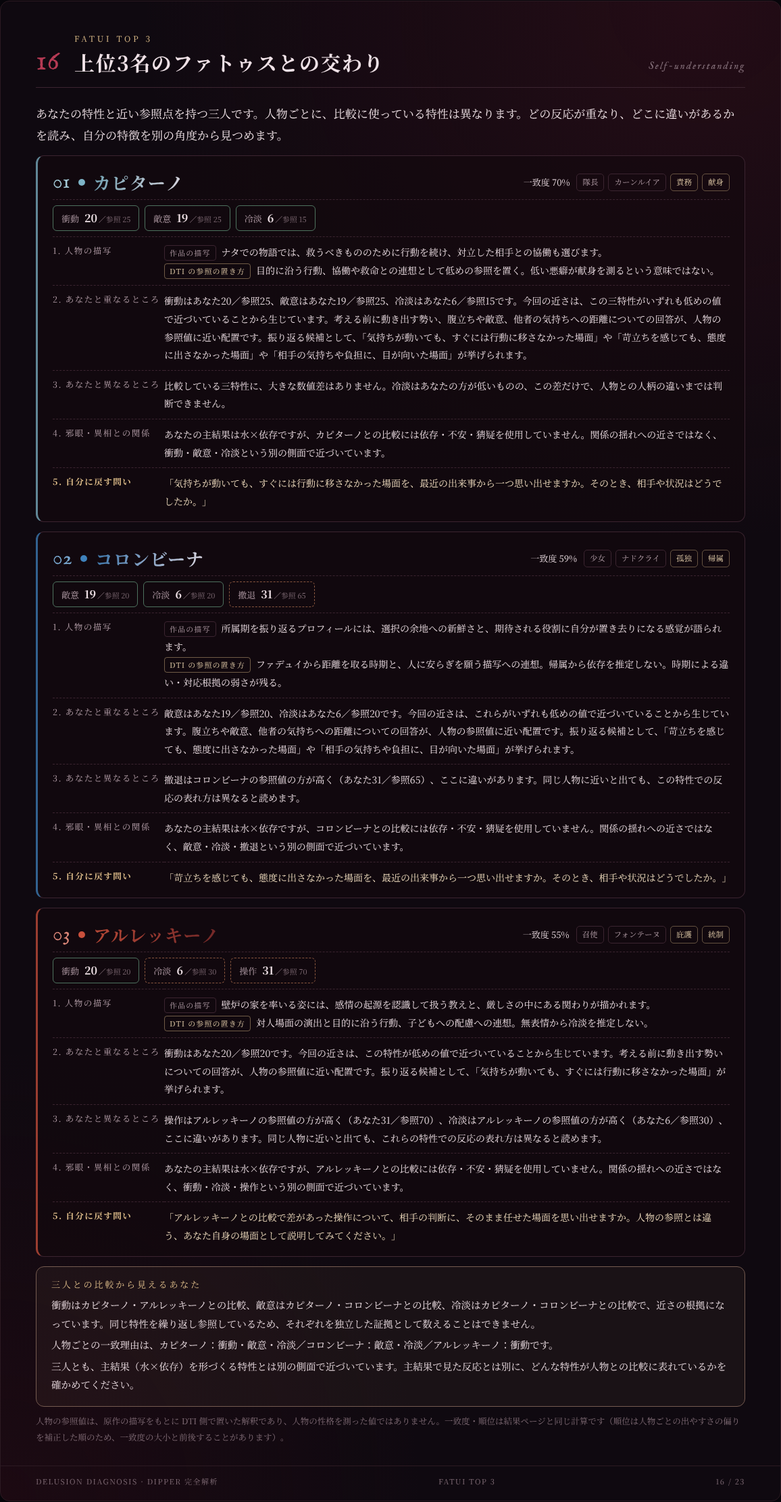
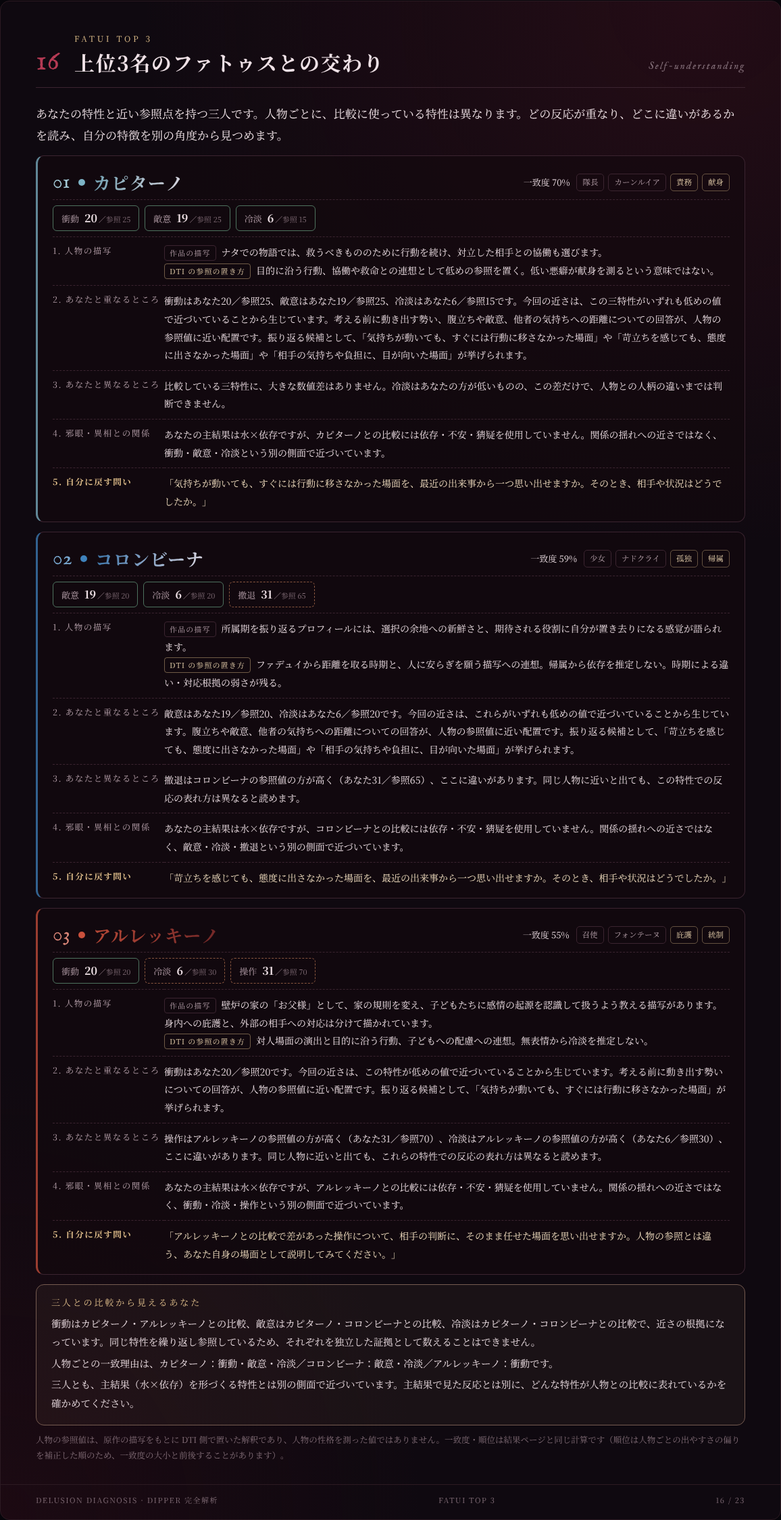
邪眼：ファトゥスの照合結果を反映（照合表に結果・原作の描写・修正方針。作品紹介文を行動・証言・解釈を分けて修正、操作を比較する人物の注意書きを具体化）。参照値の変更案と影響の試算は未適用の別資料に
Claude-Session: https://claude.ai/code/session_01G98Q4k59pxprHjFdWRszS7

diff --git a/docs/jagan/FATUI_REFERENCE_CHECK.md b/docs/jagan/FATUI_REFERENCE_CHECK.md
@@ -2,26 +2,28 @@
 
 作成：2026-11-08（DIPPER 16「上位3名のファトゥスとの交わり」の確認用）
 
-- この表は、現在レポートに出ている文と、DTI が置いている参照値をそのまま並べたものです。原作の具体的な場面との照合は、まだ行っていません。
-- 「照合結果」「対応する原作の場面」「修正案」の欄は空欄です。確認しながら書き込んでください。
+- 2026-11-08 更新：オーナーが、公開されている原作のプロフィール・任務・ボイスの記録（転載）と比較した照合結果を反映しました。ゲーム内の全場面を直接確認したものではありません。
+- 特性の方向性を説明できても、75や90という数値までは原作から確定できません。**全員の参照値は、DTI 側の編集上の設定**として扱います。
+- 作品紹介文と注意書きは修正済み（下の「作品の描写」は修正後の文）。**参照値の変更は未適用**で、案と影響の試算は FATUI_REFERENCE_PROPOSAL.md にあります。
+- 方針：「未対応」と「低い・中ほど」を分ける（分からない特性を低い値や50付近で埋めない）／人物の行動・他者の証言・DTI の解釈を分ける（証言は「○○はこう評している」と書く）／設定時期と対象範囲（執行官期か後年か、身内か他者全般か）を明示する。
 - 参照値は、原作の描写をもとに DTI 側で置いた解釈です（reference_origin: authored_story_association_not_measured_character_trait／confidence: interpretive_not_validated）。人物の性格を測った値ではありません。
 - 参照値の目安：35以下＝低め、65以上＝高め、その間＝中ほど。
 
 ## 一覧
 
-| # | 人物 | 肩書き | 出身 | 参照特性（参照値） | 根拠メモの注記 |
+| # | 人物 | 肩書き | 出身 | 参照特性（参照値） | 照合結果 |
 |---|---|---|---|---|---|
-| 1 | ピエロ | 道化 | カーンルイア | 敵意 75（高め）・猜疑 65（高め） | — |
-| 2 | カピターノ | 隊長 | カーンルイア | 衝動 25（低め）・冷淡 15（低め）・敵意 25（低め） | — |
-| 3 | ドットーレ | 博士 | スメール | 操作 90（高め）・冷淡 90（高め） | — |
-| 4 | コロンビーナ | 少女 | ナドクライ | 撤退 65（高め）・敵意 20（低め）・冷淡 20（低め） | 要確認（根拠メモに注記あり） |
-| 5 | アルレッキーノ | 召使 | フォンテーヌ | 操作 70（高め）・衝動 20（低め）・冷淡 30（低め） | — |
-| 6 | プルチネッラ | 雄鶏 | スネージナヤ | 操作 75（高め）・衝動 30（低め） | 要確認（根拠メモに注記あり） |
-| 7 | スカラマシュ | 散兵 | 稲妻 | 敵意 90（高め）・猜疑 85（高め） | — |
-| 8 | サンドローネ | 傀儡 | フォンテーヌ | 撤退 75（高め）・敵意 65（高め） | — |
-| 9 | シニョーラ | 淑女 | モンド | 敵意 85（高め）・操作 70（高め）・冷淡 65（高め） | — |
-| 10 | パンタローネ | 富者 | 璃月 | 操作 85（高め）・冷淡 55（中ほど） | 要確認（根拠メモに注記あり） |
-| 11 | タルタリヤ | 公子 | スネージナヤ | 危険志向 85（高め）・衝動 45（中ほど） | 要確認（根拠メモに注記あり） |
+| 1 | ピエロ | 道化 | カーンルイア | 敵意 75（高め）・猜疑 65（高め） | 一部一致 |
+| 2 | カピターノ | 隊長 | カーンルイア | 衝動 25（低め）・冷淡 15（低め）・敵意 25（低め） | 一部一致 |
+| 3 | ドットーレ | 博士 | スメール | 操作 90（高め）・冷淡 90（高め） | 対応は比較的明確 |
+| 4 | コロンビーナ | 少女 | ナドクライ | 撤退 65（高め）・敵意 20（低め）・冷淡 20（低め） | 紹介文は支持、撤退との対応は弱い |
+| 5 | アルレッキーノ | 召使 | フォンテーヌ | 操作 70（高め）・衝動 20（低め）・冷淡 30（低め） | 一部一致 |
+| 6 | プルチネッラ | 雄鶏 | スネージナヤ | 操作 75（高め）・衝動 30（低め） | 一部一致 |
+| 7 | スカラマシュ | 散兵 | 稲妻 | 敵意 90（高め）・猜疑 85（高め） | 執行官期に限定すれば、おおむね対応 |
+| 8 | サンドローネ | 傀儡 | フォンテーヌ | 撤退 75（高め）・敵意 65（高め） | 一部一致 |
+| 9 | シニョーラ | 淑女 | モンド | 敵意 85（高め）・操作 70（高め）・冷淡 65（高め） | 敵意は説明しやすい、操作・冷淡は追加説明が必要 |
+| 10 | パンタローネ | 富者 | 璃月 | 操作 85（高め）・冷淡 55（中ほど） | 一部一致 |
+| 11 | タルタリヤ | 公子 | スネージナヤ | 危険志向 85（高め）・衝動 45（中ほど） | 危険志向は支持、衝動の程度は未確定 |
 
 ## 人物ごとの詳細
 
@@ -32,14 +34,15 @@
 | 参照特性 | 敵意 75（高め）・猜疑 65（高め） |
 | 参照しない特性 | 不安・依存・撤退・衝動・固執・完璧・顕示・操作・危険志向・冷淡 |
 | 人物タグ | 喪失・反逆 |
-| 作品の描写（レポート掲載文） | ファデュイの統括官として、失われたものへの思いを大義につなぎ、長期的な活動を続ける姿が描かれます。 |
+| 作品の描写（レポート掲載文） | プロフィール「嗤笑の面」には、災厄を阻止できなかった経緯と、その後の怒りや天理への反逆が記されています。 |
 | DTI の参照の置き方（根拠メモ） | 喪失を背景にした敵対と不信を物語上の参照にする。固執・依存の座標は推定しない。 |
 | 連想のテーマ | 長く抱えている思いと、日々続けている行動との関係を振り返るための連想です。 |
 | 測っていないこと（注意書き） | 怒りや不信の高さは、人物の善悪や、復讐心・加害性が似ているという意味ではありません。 |
 | 出典 | https://genshin-impact.fandom.com/ja/wiki/嗤笑の面 |
-| **照合結果**（一致／一部一致／不一致） | |
-| **対応する原作の場面** | |
-| **修正案** | |
+| **照合結果** | 一部一致 |
+| **対応する原作の描写** | 「嗤笑の面」：災厄を阻止できなかった経緯、怒り、天理への反逆。 |
+| **修正方針** | 敵意との連想は説明可能。猜疑65は根拠不足として再検討（世界への反逆＝人を疑いやすい、とは結びつけない）。 |
+| 照合に使った記録 | https://genshin-impact.fandom.com/ja/wiki/嗤笑の面 |
 
 確認したいこと：
 - 敵意を高め（75）に置く根拠となる言動・場面が、原作にあるか。
@@ -58,9 +61,10 @@
 | 連想のテーマ | 気持ちが揺れる中でも必要なことを続けるあり方を振り返る連想です。 |
 | 測っていないこと（注意書き） | 献身・責任感・戦闘力は測っていません。衝動・冷淡・敵意が低めの参照との近さだけを見ており、人物全体は表せません。 |
 | 出典 | https://genshin-impact.fandom.com/ja/wiki/「隊長」 |
-| **照合結果**（一致／一部一致／不一致） | |
-| **対応する原作の場面** | |
-| **修正案** | |
+| **照合結果** | 一部一致 |
+| **対応する原作の描写** | ナタで当初対立したマーヴィカの計画を認め、部下とともに協力する描写。 |
+| **修正方針** | 作品紹介は維持。低い参照値の根拠は献身からの逆算ではなく、各特性に対応する判断や言動で示す。足りない項目は保留。 |
+| 照合に使った記録 | https://genshin-impact.fandom.com/ja/wiki/「隊長」 |
 
 確認したいこと：
 - 衝動を低め（25）に置く根拠となる言動・場面が、原作にあるか。
@@ -75,14 +79,15 @@
 | 参照特性 | 操作 90（高め）・冷淡 90（高め） |
 | 参照しない特性 | 不安・依存・猜疑・撤退・衝動・固執・完璧・敵意・顕示・危険志向 |
 | 人物タグ | 探究・操作 |
-| 作品の描写（レポート掲載文） | スメールでの物語では、研究目的に向けた活動と、交渉に応じて手段を組み替える姿が描かれます。 |
+| 作品の描写（レポート掲載文） | 任務「夜を飛ぶ鳥は三段へと落ちる」では、丹羽を殺害し、その経緯を偽って傾奇者に伝えていたことが明らかになります。他者を実験の手段として扱う描写もあります。 |
 | DTI の参照の置き方（根拠メモ） | 他者を手段にする行動と不利益の扱いを比較。研究好きから固執や完璧を推定しない。 |
 | 連想のテーマ | 目的への関わり方や、出来事の扱い方について考えるための連想です。 |
-| 測っていないこと（注意書き） | 残虐性・知能・倫理観が似ているという意味ではありません。操作と冷淡が高い参照との近さだけを見ています。 |
+| 測っていないこと（注意書き） | 残虐性・知能・倫理観が似ているという意味ではありません。操作と冷淡が高い参照との近さだけを見ています。操作に関係する設問への回答傾向を比較しています。個別の場面で相手を操る意図があったか、善意があったかまでは、この結果から判断できません。 |
 | 出典 | https://genshin-impact.fandom.com/ja/wiki/「博士」 |
-| **照合結果**（一致／一部一致／不一致） | |
-| **対応する原作の場面** | |
-| **修正案** | |
+| **照合結果** | 対応は比較的明確 |
+| **対応する原作の描写** | 任務「夜を飛ぶ鳥は三段へと落ちる」：丹羽を殺害し、その経緯を偽って傾奇者に伝えていた。 |
+| **修正方針** | 紹介文を、欺瞞による誘導と他者を実験の手段にする描写へ変更（済）。90という数値は編集上の設定と明記。 |
+| 照合に使った記録 | https://genshin-impact.fandom.com/ja/wiki/夜を飛ぶ鳥は三段へと落ちる |
 
 確認したいこと：
 - 操作を高め（90）に置く根拠となる言動・場面が、原作にあるか。
@@ -101,9 +106,10 @@
 | 連想のテーマ | 自分の意思や、人とのつながりをどう感じているかを振り返る連想です。 |
 | 測っていないこと（注意書き） | 孤独や帰属への願いは測っていません。分離不安（依存）とも同一視しません。 |
 | 出典 | https://genshin-impact.fandom.com/ja/wiki/コロンビーナ/プロフィール |
-| **照合結果**（一致／一部一致／不一致） | |
-| **対応する原作の場面** | |
-| **修正案** | |
+| **照合結果** | 紹介文は支持、撤退との対応は弱い |
+| **対応する原作の描写** | プロフィール：選択できることへの新鮮さと、博士から力の到達点ばかり期待される疎外感。 |
+| **修正方針** | 「組織を離れたから撤退65」は採用しない。敵意・冷淡の低さも個別の描写で確認。所属期と後年の描写を混ぜない。 |
+| 照合に使った記録 | https://genshin-impact.fandom.com/ja/wiki/コロンビーナ/プロフィール |
 
 確認したいこと：
 - 撤退を高め（65）に置く根拠となる言動・場面が、原作にあるか。
@@ -118,14 +124,15 @@
 | 参照特性 | 操作 70（高め）・衝動 20（低め）・冷淡 30（低め） |
 | 参照しない特性 | 不安・依存・猜疑・撤退・固執・完璧・敵意・顕示・危険志向 |
 | 人物タグ | 庇護・統制 |
-| 作品の描写（レポート掲載文） | 壁炉の家を率いる姿には、感情の起源を認識して扱う教えと、厳しさの中にある関わりが描かれます。 |
+| 作品の描写（レポート掲載文） | 壁炉の家の「お父様」として、家の規則を変え、子どもたちに感情の起源を認識して扱うよう教える描写があります。身内への庇護と、外部の相手への対応は分けて描かれています。 |
 | DTI の参照の置き方（根拠メモ） | 対人場面の演出と目的に沿う行動、子どもへの配慮への連想。無表情から冷淡を推定しない。 |
 | 連想のテーマ | 感情を理解すること、表に出すこと、行動を続けることを分けて考える連想です。 |
-| 測っていないこと（注意書き） | 庇護や統率の姿勢は測っていません。冷静であることを、感情の欠如とは扱いません。 |
+| 測っていないこと（注意書き） | 庇護や統率の姿勢は測っていません。冷静であることを、感情の欠如とは扱いません。操作に関係する設問への回答傾向を比較しています。個別の場面で相手を操る意図があったか、善意があったかまでは、この結果から判断できません。 |
 | 出典 | https://genshin-impact.fandom.com/ja/wiki/アルレッキーノ/プロフィール |
-| **照合結果**（一致／一部一致／不一致） | |
-| **対応する原作の場面** | |
-| **修正案** | |
+| **照合結果** | 一部一致 |
+| **対応する原作の描写** | 感情の起源を認識する教え、壁炉の家の規則を変えた描写。 |
+| **修正方針** | 操作・衝動・冷淡それぞれの根拠を分ける。身内への庇護と外部への対応を併記し、冷淡30を庇護だけで正当化しない。 |
+| 照合に使った記録 | https://wikiwiki.jp/genshinwiki/物語 |
 
 確認したいこと：
 - 操作を高め（70）に置く根拠となる言動・場面が、原作にあるか。
@@ -140,14 +147,15 @@
 | 参照特性 | 操作 75（高め）・衝動 30（低め） |
 | 参照しない特性 | 不安・依存・猜疑・撤退・固執・完璧・敵意・顕示・危険志向・冷淡 |
 | 人物タグ | 庇護・交渉 |
-| 作品の描写（レポート掲載文） | 市長としての手腕や継続的な働きかけが語られる一方、その世話や関わりへの評価は、語り手によって異なります。 |
+| 作品の描写（レポート掲載文） | アルレッキーノはボイスで、市長としての手腕を評価しつつ、壁炉の家が代価として扱われることを批判しています。これは他の人物による評価で、本人の内面を確定するものではありません。 |
 | DTI の参照の置き方（根拠メモ） | 政治上の誘導と計画的な関与への連想。他者による人質評を確定した内面とせず、冷淡は未対応とする。 |
 | 連想のテーマ | 人との関係や、目的に向けた行動をどう保つかを考えるための連想です。 |
-| 測っていないこと（注意書き） | 他人を操る意図や、善意の有無を測るものではありません。 |
+| 測っていないこと（注意書き） | 操作に関係する設問への回答傾向を比較しています。個別の場面で相手を操る意図があったか、善意があったかまでは、この結果から判断できません。 |
 | 出典 | https://genshin-impact.fandom.com/ja/wiki/「雄鶏」 |
-| **照合結果**（一致／一部一致／不一致） | |
-| **対応する原作の場面** | |
-| **修正案** | |
+| **照合結果** | 一部一致 |
+| **対応する原作の描写** | アルレッキーノのボイス：市長としての手腕を評価しつつ、壁炉の家が代価として扱われることを批判（語り手の評価）。 |
+| **修正方針** | 操作との連想は誰の評価かを明示（済）。衝動30は別途根拠が必要。冷淡は未対応のまま。 |
+| 照合に使った記録 | https://genshin-impact.fandom.com/ja/wiki/アルレッキーノ/ボイス |
 
 確認したいこと：
 - 操作を高め（75）に置く根拠となる言動・場面が、原作にあるか。
@@ -161,14 +169,15 @@
 | 参照特性 | 敵意 90（高め）・猜疑 85（高め） |
 | 参照しない特性 | 不安・依存・撤退・衝動・固執・完璧・顕示・操作・危険志向・冷淡 |
 | 人物タグ | 拒絶・反逆 |
-| 作品の描写（レポート掲載文） | 執行官期の物語には、裏切りと受け止めた経験、心を巡る葛藤、目的へ向かう行動が描かれます。後に、その経験の理解が変わる場面もあります。 |
+| 作品の描写（レポート掲載文） | 執行官期の物語には、三度の裏切りと受け止めた経験と、人や神への不信が描かれます。その受け止め方には、後に判明する誤認や欺瞞が含まれます。放浪者としての後年の変化は、ここでは扱いません。 |
 | DTI の参照の置き方（根拠メモ） | 執行官期の敵意と不信の描写を参照。現在の放浪者と混ぜず、拒絶経験だけで依存を設定しない。 |
 | 連想のテーマ | つながりの中での傷つきと、その後の感情や行動を考えるための連想です。 |
 | 測っていないこと（注意書き） | 愛着のかたち、危険性、復讐心、加害性が一致するという意味ではありません。 |
 | 出典 | https://genshin-impact.fandom.com/ja/wiki/「散兵」 |
-| **照合結果**（一致／一部一致／不一致） | |
-| **対応する原作の場面** | |
-| **修正案** | |
+| **照合結果** | 執行官期に限定すれば、おおむね対応 |
+| **対応する原作の描写** | 裏切られたと受け止めた経験と、人や神への不信。その理解には後に判明する誤認や欺瞞を含む。 |
+| **修正方針** | 敵意・猜疑は維持候補。「三度の裏切りと受け止めた」と書く（済）。放浪者としての変化と分ける。 |
+| 照合に使った記録 | https://genshin-impact.fandom.com/ja/wiki/「散兵」 |
 
 確認したいこと：
 - 敵意を高め（90）に置く根拠となる言動・場面が、原作にあるか。
@@ -182,14 +191,15 @@
 | 参照特性 | 撤退 75（高め）・敵意 65（高め） |
 | 参照しない特性 | 不安・依存・猜疑・衝動・固執・完璧・顕示・操作・危険志向・冷淡 |
 | 人物タグ | 没頭・執着 |
-| 作品の描写（レポート掲載文） | 研究に没頭する姿と、相手によって異なる関わりが語られます。周囲からの評価だけで一つの内面を決めることはできません。 |
+| 作品の描写（レポート掲載文） | アルレッキーノは、公の場に姿を現しにくい人物として語り、タルタリヤは、彼女から敵意を感じたと語っています。いずれも他の人物の証言で、研究への没頭と対人場面での振る舞いは分けて読む必要があります。 |
 | DTI の参照の置き方（根拠メモ） | 対人場面から退く描写と、いら立ちの描写を比較する。研究への集中から固執・完璧・冷淡を推定しない。 |
 | 連想のテーマ | 集中する活動と、対人場面での感情の扱い方を考えるための連想です。 |
 | 測っていないこと（注意書き） | 研究への没頭や執着、完璧さは測っていません（対応を置いていない特性です）。 |
 | 出典 | https://genshin-impact.fandom.com/ja/wiki/「傀儡」 |
-| **照合結果**（一致／一部一致／不一致） | |
-| **対応する原作の場面** | |
-| **修正案** | |
+| **照合結果** | 一部一致 |
+| **対応する原作の描写** | 公の場に姿を現しにくいというアルレッキーノの証言、敵意を感じたというタルタリヤの証言。 |
+| **修正方針** | 研究への没頭と対人回避を区別。敵意は「タルタリヤに対する描写」と対象を限定。撤退75・敵意65の一般化を再検討。 |
+| 照合に使った記録 | https://genshin-impact.fandom.com/ja/wiki/アルレッキーノ/ボイス |
 
 確認したいこと：
 - 撤退を高め（75）に置く根拠となる言動・場面が、原作にあるか。
@@ -203,14 +213,15 @@
 | 参照特性 | 敵意 85（高め）・操作 70（高め）・冷淡 65（高め） |
 | 参照しない特性 | 不安・依存・猜疑・撤退・衝動・固執・完璧・顕示・危険志向 |
 | 人物タグ | 喪失・憤怒 |
-| 作品の描写（レポート掲載文） | 喪失を経た強い感情と、執行官としての目的遂行が描かれます。氷の邪眼には、自身の炎を抑える役割がありました。 |
+| 作品の描写（レポート掲載文） | モンドでは旅人たちを待ち伏せし、風神の神の心を奪う場面が描かれます。喪失の経緯や氷の邪眼の役割は、背景として語られています。 |
 | DTI の参照の置き方（根拠メモ） | 敵対的な行動、外交上の演出、他者への不利益の扱いを参照。悲嘆から依存を推定しない。 |
 | 連想のテーマ | 内に抱えるものと、表に出すもの、行動へ移すものを分けて振り返る連想です。 |
-| 測っていないこと（注意書き） | 悲嘆や復讐心、氷の邪眼との関係は測っていません。敵意・操作・冷淡が高い参照との近さだけを見ています。 |
+| 測っていないこと（注意書き） | 悲嘆や復讐心、氷の邪眼との関係は測っていません。敵意・操作・冷淡が高い参照との近さだけを見ています。操作に関係する設問への回答傾向を比較しています。個別の場面で相手を操る意図があったか、善意があったかまでは、この結果から判断できません。 |
 | 出典 | https://genshin-impact.fandom.com/ja/wiki/シニョーラ |
-| **照合結果**（一致／一部一致／不一致） | |
-| **対応する原作の場面** | |
-| **修正案** | |
+| **照合結果** | 敵意は説明しやすい、操作・冷淡は追加説明が必要 |
+| **対応する原作の描写** | モンドでの待ち伏せと神の心の強奪。 |
+| **修正方針** | 敵意は具体的場面とともに維持候補。操作は欺瞞・誘導、冷淡は他者の苦痛の扱いに対応する場面を示す。氷の邪眼や悲嘆は背景説明として分離（済）。 |
+| 照合に使った記録 | https://genshin-impact.fandom.com/ja/wiki/シニョーラ |
 
 確認したいこと：
 - 敵意を高め（85）に置く根拠となる言動・場面が、原作にあるか。
@@ -225,14 +236,15 @@
 | 参照特性 | 操作 85（高め）・冷淡 55（中ほど） |
 | 参照しない特性 | 不安・依存・猜疑・撤退・衝動・固執・完璧・敵意・顕示・危険志向 |
 | 人物タグ | 掌握・野心 |
-| 作品の描写（レポート掲載文） | 経済を通じた長期的な計画を進める人物として描かれます。アルレッキーノからは、計画能力と、その奥にある感情について異なる評価が語られます。 |
+| 作品の描写（レポート掲載文） | アルレッキーノはボイスで、経済を操る彼の能力について語っています。これは他の人物による評価で、経済面の手腕と対人場面での振る舞いは区別して読む必要があります。 |
 | DTI の参照の置き方（根拠メモ） | 経済と対人上の誘導、他者の扱いへの連想。富・貧困・計画性から完璧や不安を設定しない。冷淡の対応根拠は特に要確認。 |
 | 連想のテーマ | 計画を続けることと、内側にある気持ちとの関係を考えるための連想です。 |
-| 測っていないこと（注意書き） | 経済的な掌握力や野心は測っていません。貧困経験や憎しみの有無を判定するものではありません。 |
+| 測っていないこと（注意書き） | 経済的な掌握力や野心は測っていません。貧困経験や憎しみの有無を判定するものではありません。操作に関係する設問への回答傾向を比較しています。個別の場面で相手を操る意図があったか、善意があったかまでは、この結果から判断できません。 |
 | 出典 | https://genshin-impact.fandom.com/ja/wiki/「富者」 |
-| **照合結果**（一致／一部一致／不一致） | |
-| **対応する原作の場面** | |
-| **修正案** | |
+| **照合結果** | 一部一致 |
+| **対応する原作の描写** | アルレッキーノのボイス：経済を操る能力と憎悪。 |
+| **修正方針** | 冷淡55は根拠不足（不明だから中間値に置かない）。操作85も、経済操作と対人操作を区別して再確認。 |
+| 照合に使った記録 | https://genshin-impact.fandom.com/ja/wiki/アルレッキーノ/ボイス |
 
 確認したいこと：
 - 操作を高め（85）に置く根拠となる言動・場面が、原作にあるか。
@@ -246,14 +258,15 @@
 | 参照特性 | 危険志向 85（高め）・衝動 45（中ほど） |
 | 参照しない特性 | 不安・依存・猜疑・撤退・固執・完璧・敵意・顕示・操作・冷淡 |
 | 人物タグ | 闘争・挑戦 |
-| 作品の描写（レポート掲載文） | 強敵や挑戦への意欲と、家族への手紙や弟との関わりが描かれます。一つの場面だけでは捉えきれない姿があります。 |
+| 作品の描写（レポート掲載文） | プロフィールには、危険な戦いを追い求め、争いから問題を起こすこともある姿が描かれます。家族への手紙や弟との関わりも描かれますが、ここで比較する特性とは別の背景です。 |
 | DTI の参照の置き方（根拠メモ） | 危険への接近を中心に、計画的な行動も含む参照。戦闘好きから極端な衝動性を設定しない。数値は仮説。 |
 | 連想のテーマ | 取り組みへの関与と、大切な相手とのつながりを考えるための連想です。 |
 | 測っていないこと（注意書き） | 戦闘の好みや家族への思いは測っていません。危険志向を、衝動と同一視しません。 |
 | 出典 | https://genshin-impact.fandom.com/ja/wiki/タルタリヤ/プロフィール |
-| **照合結果**（一致／一部一致／不一致） | |
-| **対応する原作の場面** | |
-| **修正案** | |
+| **照合結果** | 危険志向は支持、衝動の程度は未確定 |
+| **対応する原作の描写** | プロフィール：危険な戦いを追求し、争いから問題を起こす描写。 |
+| **修正方針** | 危険志向の高さは維持候補。衝動は衝動的な場面と抑えた場面の両方で再検討。家族思いの背景を、比較していない特性の一致に使わない。 |
+| 照合に使った記録 | https://genshin-impact.fandom.com/ja/wiki/タルタリヤ/プロフィール |
 
 確認したいこと：
 - 危険志向を高め（85）に置く根拠となる言動・場面が、原作にあるか。

diff --git a/docs/jagan/FATUI_REFERENCE_PROPOSAL.md b/docs/jagan/FATUI_REFERENCE_PROPOSAL.md
@@ -1,0 +1,64 @@
+# ファトゥス参照値の変更案（未適用・確認用）
+
+作成：2026-11-08。照合表（FATUI_REFERENCE_CHECK.md）の結果をもとにした**判定変更の案**です。文章の修正（作品紹介文・注意書き）とは分けて確認するため、**まだデータには反映していません**。
+
+## 前提
+
+- 全員の参照値は、原作から確定した数値ではなく、DTI 側の**編集上の設定**です。
+- 根拠が足りない特性は、低い値や50付近で埋めず、**「未対応」（比較に使わない）**にします。
+- 未対応にした特性は、その人物との比較から外れます。一致度は、残った特性だけで計算されます。
+
+## 案A：根拠不足と判断された参照値を「未対応」にする
+
+| 人物 | 変更 | 理由（照合結果） | 変更後に比較する特性 |
+|---|---|---|---|
+| ピエロ | 猜疑65 → 未対応 | 世界への反逆を、広い対人不信と結びつけない | 敵意75 |
+| コロンビーナ | 撤退65 → 未対応 | 「組織を離れた」ことを撤退特性にしない | 敵意20・冷淡20 |
+| プルチネッラ | 衝動30 → 未対応 | 別途の根拠がない | 操作75 |
+| パンタローネ | 冷淡55 → 未対応 | 不明な特性を中間値に置かない | 操作85 |
+| タルタリヤ | 衝動45 → 未対応 | 衝動の程度が未確定 | 危険志向85 |
+
+**この案に入れていないもの（根拠を追加で探すもの）**
+
+- カピターノ（衝動・敵意・冷淡の低さ）
+- アルレッキーノ（冷淡30）
+- サンドローネ（撤退75・敵意65）
+- シニョーラ（操作・冷淡）
+- ドットーレ・スカラマシュ：維持候補ですが、数値は編集上の設定と明記します
+
+これらは各特性に対応する場面が見つかるまで、値を変えずに保留します。
+
+## 影響の試算（架空の回答 5,000 件。各設問 1〜5 を一様に選んだもの）
+
+実際の利用者の回答分布ではないため、割合の大小は目安です。
+
+| 人物 | 現在 | 案A | 差（ポイント） |
+|---|---:|---:|---:|
+| ピエロ | 15.8% | 13.4% | −2.4 |
+| カピターノ | 0.2% | 0.0% | −0.2 |
+| ドットーレ | 1.4% | 1.2% | −0.2 |
+| コロンビーナ | 7.3% | 4.8% | −2.5 |
+| アルレッキーノ | 4.4% | 10.3% | +6.0 |
+| プルチネッラ | 20.0% | 27.6% | +7.6 |
+| スカラマシュ | 1.6% | 4.7% | +3.1 |
+| サンドローネ | 13.6% | 15.4% | +1.8 |
+| シニョーラ | 10.1% | 8.3% | −1.8 |
+| パンタローネ | 10.0% | 1.9% | −8.1 |
+| タルタリヤ | 15.6% | 12.2% | −3.4 |
+
+- 最も近い人物（1位）が変わる回答：**40.3%**
+- 上位3名の並びが変わる回答：**80.2%**
+- 人物が変わらない回答での一致度の変化：平均 +0.2、最大 +18、最小 −13
+- 見本の回答（HYDP 縋望者）では、1位がカピターノ 70% からコロンビーナ 68% に変わります。
+
+## この案で生じる課題
+
+1. **比較する特性が1つだけの人物が4人になります**（ピエロ・プルチネッラ・パンタローネ・タルタリヤ）。一つの特性だけの近さで「最も近い人物」になりやすく、比較の根拠が薄くなります。
+2. **出やすさの偏りを補正する値（selection_offset）**は、現在の参照値に合わせて決めています。案Aを採る場合は、補正値の決め直しも必要です。プルチネッラ 27.6%、パンタローネ 1.9% のような偏りが出ているためです。
+3. 結果の版（characterModelVersion）を上げる必要があります。すでに保存された結果やマイページの記録との関係も決めます。旧版の結果は旧版のまま表示する、を想定しています。
+
+## 決めていただきたいこと
+
+- 案Aのとおり「未対応」にするか。それとも、根拠を追加で探してから一括で見直すか。
+- 比較する特性が1つだけになる人物を、選ばれる対象に残すか。最低2特性を条件にするか。
+- 補正値の決め直しと版の更新を、同じ変更でまとめて行うか。
